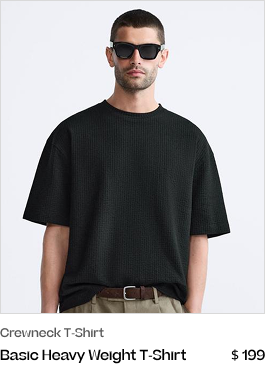
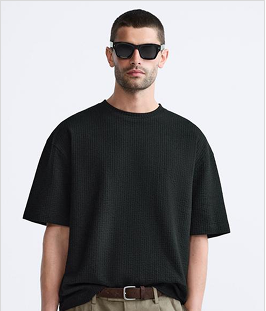
Added the favourit button to all products

diff --git a/components/shop/NewCollectionHero.tsx b/components/shop/NewCollectionHero.tsx
@@ -5,7 +5,7 @@ import {
   rightArrow,
   whiteShirt1,
 } from "@/public/assets/images/images";
-import { SearchIcon } from "lucide-react";
+import { SearchIcon, Heart } from "lucide-react";
 import Image from "next/image";
 import Link from "next/link";
 import { useState, useEffect } from "react";
@@ -22,6 +22,21 @@ export function NewCollectionHero() {
   const [dragStart, setDragStart] = useState<number | null>(null);
   const [dragOffset, setDragOffset] = useState(0);
   const [visible, setVisible] = useState(1); // Mobile: 1, Tablet: 2, Desktop: 1
+  const [favorites, setFavorites] = useState<Set<number>>(new Set());
+
+  const toggleFavorite = (index: number, e: React.MouseEvent) => {
+    e.preventDefault();
+    e.stopPropagation();
+    setFavorites((prev) => {
+      const next = new Set(prev);
+      if (next.has(index)) {
+        next.delete(index);
+      } else {
+        next.add(index);
+      }
+      return next;
+    });
+  };
 
   // Responsive visible count for mobile/tablet slider
   useEffect(() => {
@@ -116,7 +131,7 @@ export function NewCollectionHero() {
                 <Link
                   href="/"
                   key={i}
-                  className="relative h-[350px] sm:h-[380px] md:h-[400px] shrink-0 bg-white"
+                  className="relative h-[350px] sm:h-[380px] md:h-[400px] shrink-0 bg-white group"
                   style={{
                     width: `calc((100% - ${
                       (visible - 1) * 16
@@ -129,6 +144,20 @@ export function NewCollectionHero() {
                     fill
                     className="object-cover"
                   />
+                  {/* FAVORITE BUTTON */}
+                  <button
+                    onClick={(e) => toggleFavorite(i, e)}
+                    className="absolute top-4 right-4 p-2 rounded-full bg-white/80 hover:bg-white transition-colors z-10"
+                    aria-label="Add to favorites"
+                  >
+                    <Heart
+                      className={`h-5 w-5 ${
+                        favorites.has(i)
+                          ? "fill-red-500 text-red-500"
+                          : "text-black"
+                      }`}
+                    />
+                  </button>
                 </Link>
               ))}
             </div>
@@ -242,7 +271,7 @@ export function NewCollectionHero() {
                   <Link
                     href="/"
                     key={i}
-                    className="relative h-[450px] w-[345px] shrink-0 bg-white mr-8 last:mr-0"
+                    className="relative h-[450px] w-[345px] shrink-0 bg-white mr-8 last:mr-0 group"
                   >
                     <Image
                       src={img}
@@ -250,6 +279,20 @@ export function NewCollectionHero() {
                       fill
                       className="object-cover"
                     />
+                    {/* FAVORITE BUTTON */}
+                    <button
+                      onClick={(e) => toggleFavorite(i, e)}
+                      className="absolute top-4 right-4 p-2 rounded-full bg-white/80 hover:bg-white transition-colors z-10"
+                      aria-label="Add to favorites"
+                    >
+                      <Heart
+                        className={`h-5 w-5 ${
+                          favorites.has(i)
+                            ? "fill-red-500 text-red-500"
+                            : "text-black"
+                        }`}
+                      />
+                    </button>
                   </Link>
                 ))}
               </div>

diff --git a/components/shop/ProductsPage.tsx b/components/shop/ProductsPage.tsx
@@ -9,9 +9,9 @@ import {
   product4,
   product5,
   product6,
-  product7,
 } from "@/public/assets/images/images";
-import { Search } from "lucide-react";
+import { Search, Heart } from "lucide-react";
+import { useState } from "react";
 
 type Product = {
   image: StaticImageData;
@@ -57,12 +57,6 @@ const PRODUCTS: Product[] = [
     name: "Basic Slim Fit T-Shirt",
     price: "$199",
   },
-  {
-    image: product7,
-    category: "Crewneck T-Shirt",
-    name: "Basic Heavy Weight T-Shirt",
-    price: "$199",
-  },
 ];
 
 const CATEGORIES = [
@@ -77,6 +71,22 @@ const CATEGORIES = [
 ];
 
 export default function ProductsPageComponent() {
+  const [favorites, setFavorites] = useState<Set<number>>(new Set());
+
+  const toggleFavorite = (index: number, e: React.MouseEvent) => {
+    e.preventDefault();
+    e.stopPropagation();
+    setFavorites((prev) => {
+      const next = new Set(prev);
+      if (next.has(index)) {
+        next.delete(index);
+      } else {
+        next.add(index);
+      }
+      return next;
+    });
+  };
+
   return (
     <section className="w-full bg-neutral-100 py-16">
       <div className="mx-auto max-w-7xl px-6">
@@ -151,7 +161,7 @@ export default function ProductsPageComponent() {
             {/* OTHER FILTER HEADERS */}
             {[
               "Category",
-              "Colors",
+              // "Colors",
               "Price Range",
               "Collections",
               "Tags",
@@ -171,13 +181,28 @@ export default function ProductsPageComponent() {
           <div className="col-span-12 md:col-span-9 grid grid-cols-1 sm:grid-cols-2 lg:grid-cols-3 gap-8">
             {PRODUCTS.map((product, i) => (
               <Link key={i} href={`/products/${i}`}>
-                <div className="relative h-[420px] bg-white">
+                <div className="relative h-[420px] bg-white group">
                   <Image
                     src={product.image}
                     alt={product.name}
                     fill
                     className="object-cover"
                   />
+
+                  {/* FAVORITE BUTTON */}
+                  <button
+                    onClick={(e) => toggleFavorite(i, e)}
+                    className="absolute top-4 right-4 p-2 rounded-full bg-white/80 hover:bg-white transition-colors z-10"
+                    aria-label="Add to favorites"
+                  >
+                    <Heart
+                      className={`h-5 w-5 ${
+                        favorites.has(i)
+                          ? "fill-red-500 text-red-500"
+                          : "text-black"
+                      }`}
+                    />
+                  </button>
 
                   {/* ADD */}
                   <button className="absolute bottom-4 left-1/2 -translate-x-1/2 rounded-full bg-white px-3 py-1 text-sm text-black">

diff --git a/components/shop/NewThisWeek.tsx b/components/shop/NewThisWeek.tsx
@@ -10,6 +10,7 @@ import {
   whiteShirt5,
 } from "@/public/assets/images/images";
 import Link from "next/link";
+import { Heart } from "lucide-react";
 
 type Product = {
   image: StaticImageData;
@@ -52,6 +53,21 @@ export function NewThisWeek() {
   const [visible, setVisible] = useState(4);
   const [dragStart, setDragStart] = useState<number | null>(null);
   const [dragOffset, setDragOffset] = useState(0);
+  const [favorites, setFavorites] = useState<Set<number>>(new Set());
+
+  const toggleFavorite = (index: number, e: React.MouseEvent) => {
+    e.preventDefault();
+    e.stopPropagation();
+    setFavorites((prev) => {
+      const next = new Set(prev);
+      if (next.has(index)) {
+        next.delete(index);
+      } else {
+        next.add(index);
+      }
+      return next;
+    });
+  };
 
   // Responsive card count
   useEffect(() => {
@@ -127,13 +143,28 @@ export function NewThisWeek() {
                 style={{ width: `${100 / visible}%` }}
               >
                 {/* CARD */}
-                <div className="relative h-[280px] sm:h-[320px] md:h-[360px] bg-white overflow-hidden">
+                <div className="relative h-[280px] sm:h-[320px] md:h-[360px] bg-white overflow-hidden group">
                   <Image
                     src={product.image}
                     alt={product.name}
                     fill
                     className="object-cover"
                   />
+
+                  {/* FAVORITE BUTTON */}
+                  <button
+                    onClick={(e) => toggleFavorite(i, e)}
+                    className="absolute top-4 right-4 p-2 rounded-full bg-white/80 hover:bg-white transition-colors z-10"
+                    aria-label="Add to favorites"
+                  >
+                    <Heart
+                      className={`h-5 w-5 ${
+                        favorites.has(i)
+                          ? "fill-red-500 text-red-500"
+                          : "text-black"
+                      }`}
+                    />
+                  </button>
 
                   {/* ADD */}
                   <button className="absolute bottom-4 left-1/2 -translate-x-1/2 rounded-full text-black bg-white px-3 py-1 text-sm cursor-pointer">

diff --git a/components/shop/CollectionsGrid.tsx b/components/shop/CollectionsGrid.tsx
@@ -7,7 +7,8 @@ import {
   whiteShirt6,
   soldierShirt,
 } from "@/public/assets/images/images";
-import { ChevronDown } from "lucide-react";
+import { ChevronDown, Heart } from "lucide-react";
+import { useState } from "react";
 
 type Product = {
   image: StaticImageData;
@@ -38,6 +39,22 @@ const PRODUCTS: Product[] = [
 ];
 
 export function CollectionsGrid() {
+  const [favorites, setFavorites] = useState<Set<number>>(new Set());
+
+  const toggleFavorite = (index: number, e: React.MouseEvent) => {
+    e.preventDefault();
+    e.stopPropagation();
+    setFavorites((prev) => {
+      const next = new Set(prev);
+      if (next.has(index)) {
+        next.delete(index);
+      } else {
+        next.add(index);
+      }
+      return next;
+    });
+  };
+
   return (
     <section className="w-full bg-neutral-100 py-16">
       <div className="mx-auto max-w-7xl px-5">
@@ -76,13 +93,28 @@ export function CollectionsGrid() {
           {PRODUCTS.map((product, i) => (
             <div key={i} className="w-full">
               {/* IMAGE CARD */}
-              <div className="relative h-[300px] sm:h-[360px] md:h-[420px] bg-white">
+              <div className="relative h-[300px] sm:h-[360px] md:h-[420px] bg-white group">
                 <Image
                   src={product.image}
                   alt={product.name}
                   fill
                   className="object-cover"
                 />
+
+                {/* FAVORITE BUTTON */}
+                <button
+                  onClick={(e) => toggleFavorite(i, e)}
+                  className="absolute top-4 right-4 p-2 rounded-full bg-white/80 hover:bg-white transition-colors z-10"
+                  aria-label="Add to favorites"
+                >
+                  <Heart
+                    className={`h-5 w-5 ${
+                      favorites.has(i)
+                        ? "fill-red-500 text-red-500"
+                        : "text-black"
+                    }`}
+                  />
+                </button>
 
                 {/* ADD */}
                 <button className="absolute bottom-4 left-1/2 -translate-x-1/2 text-lg text-neutral-600">
